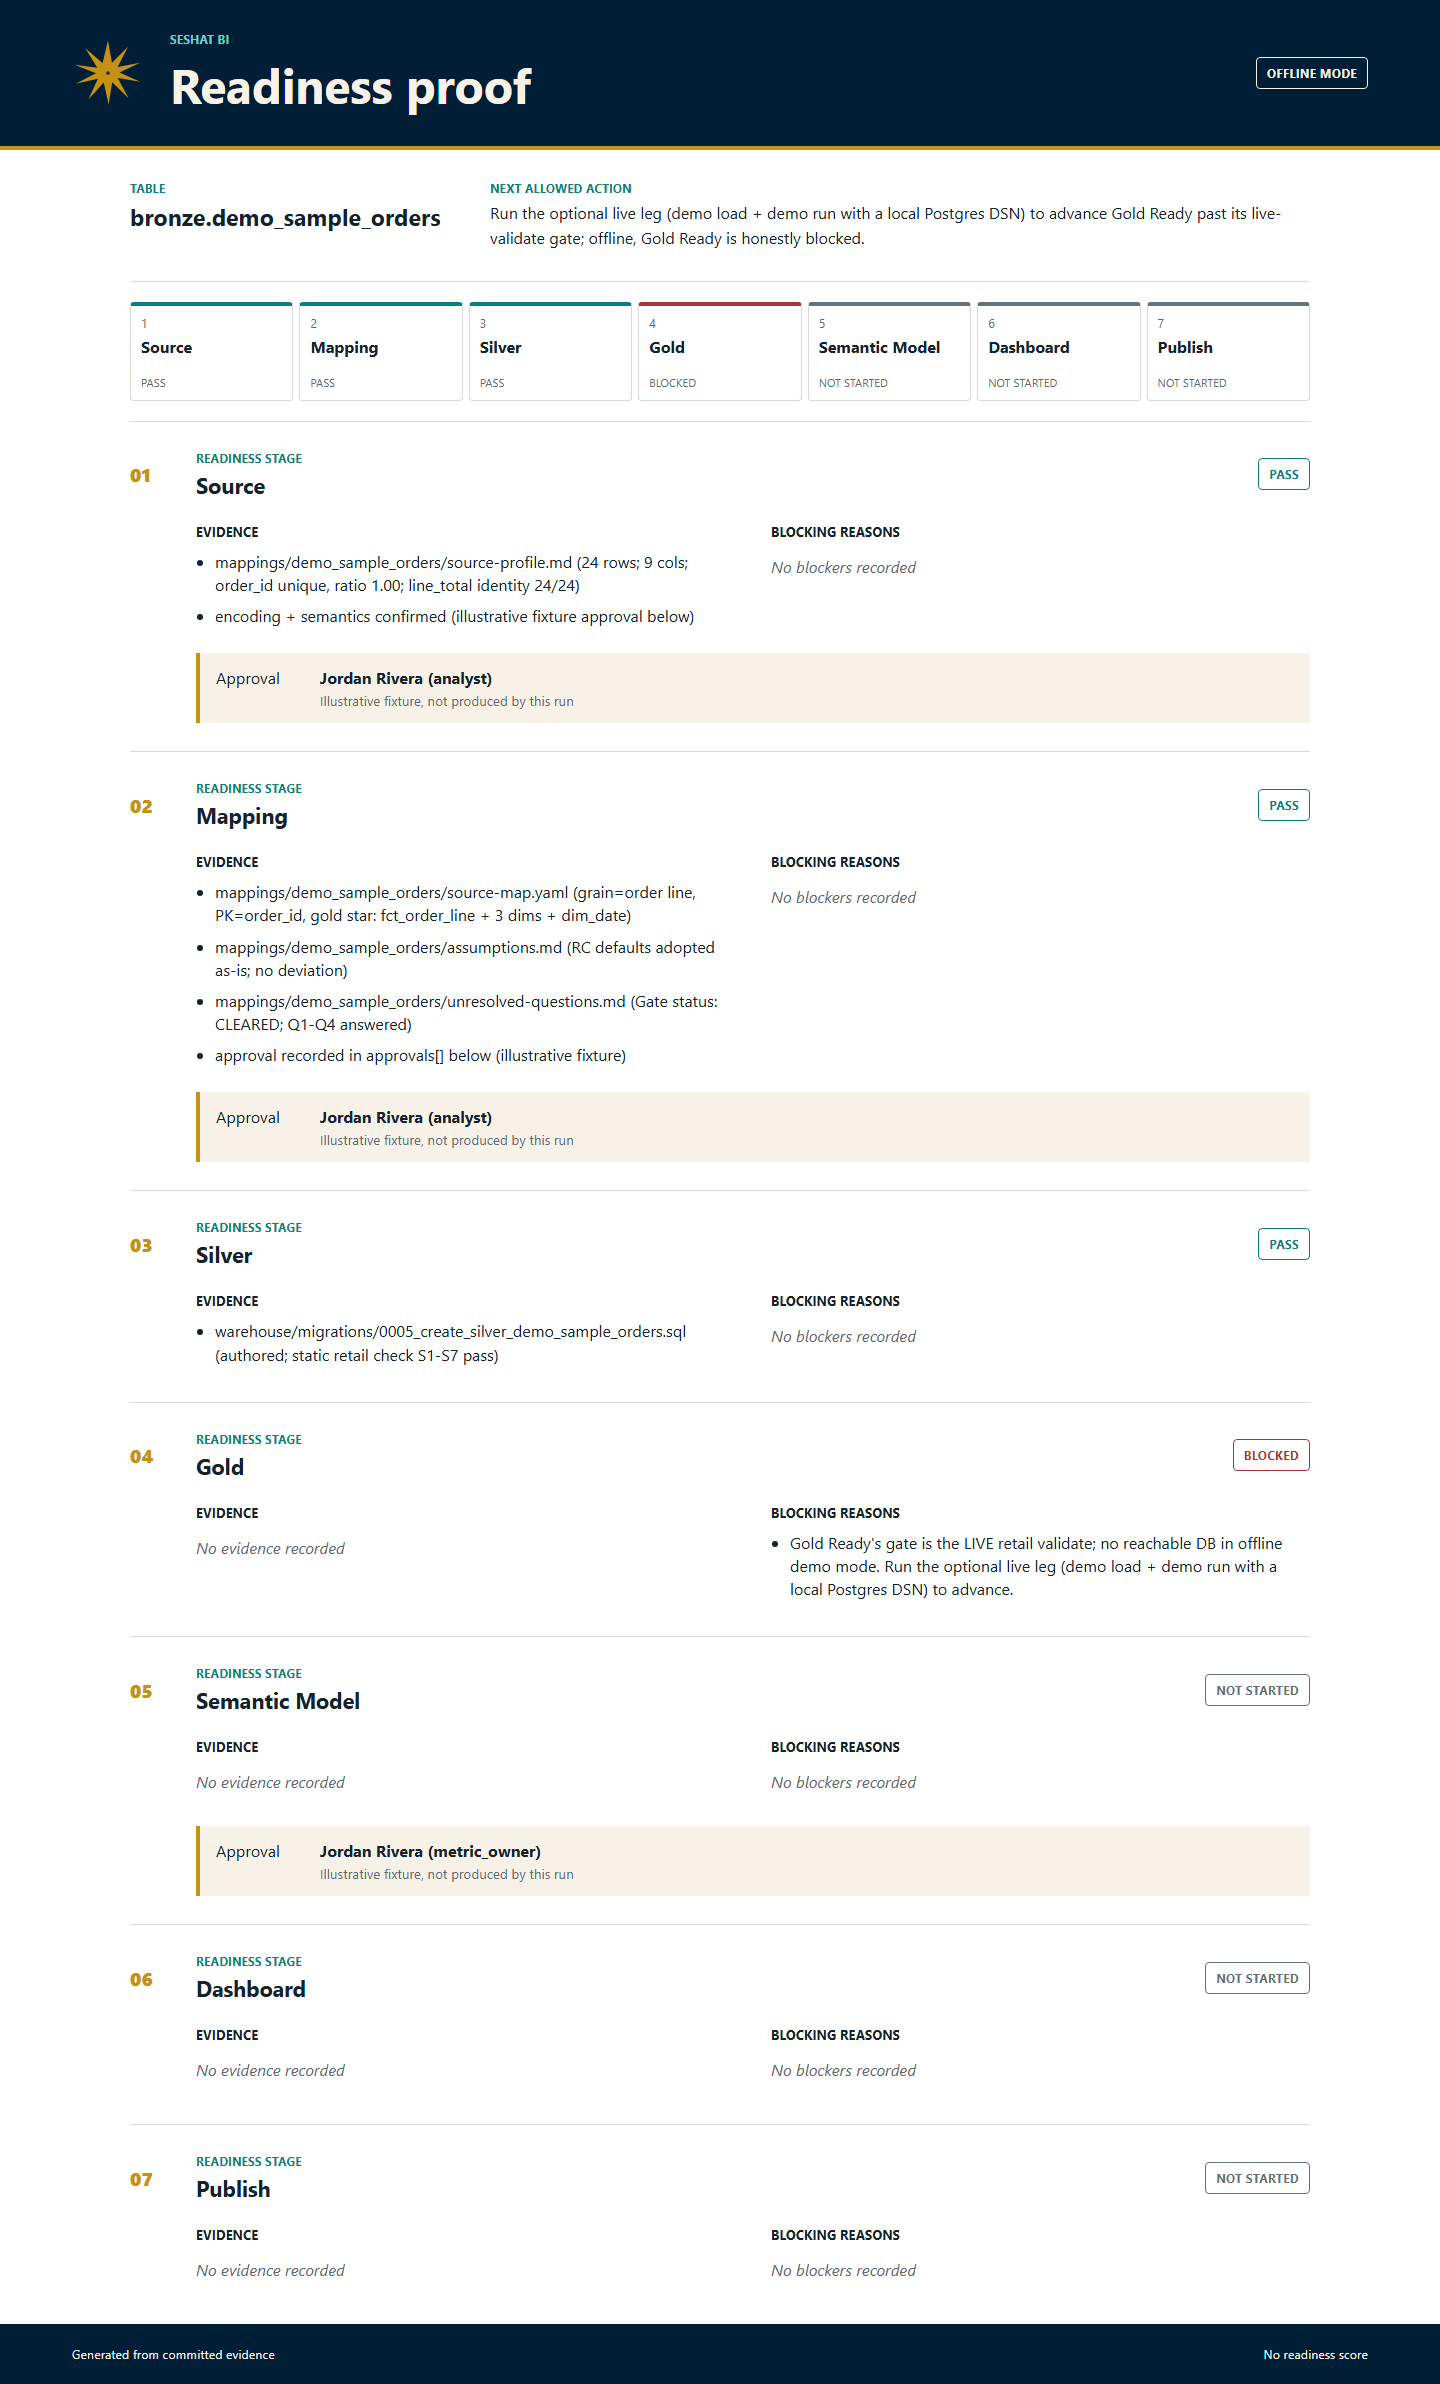
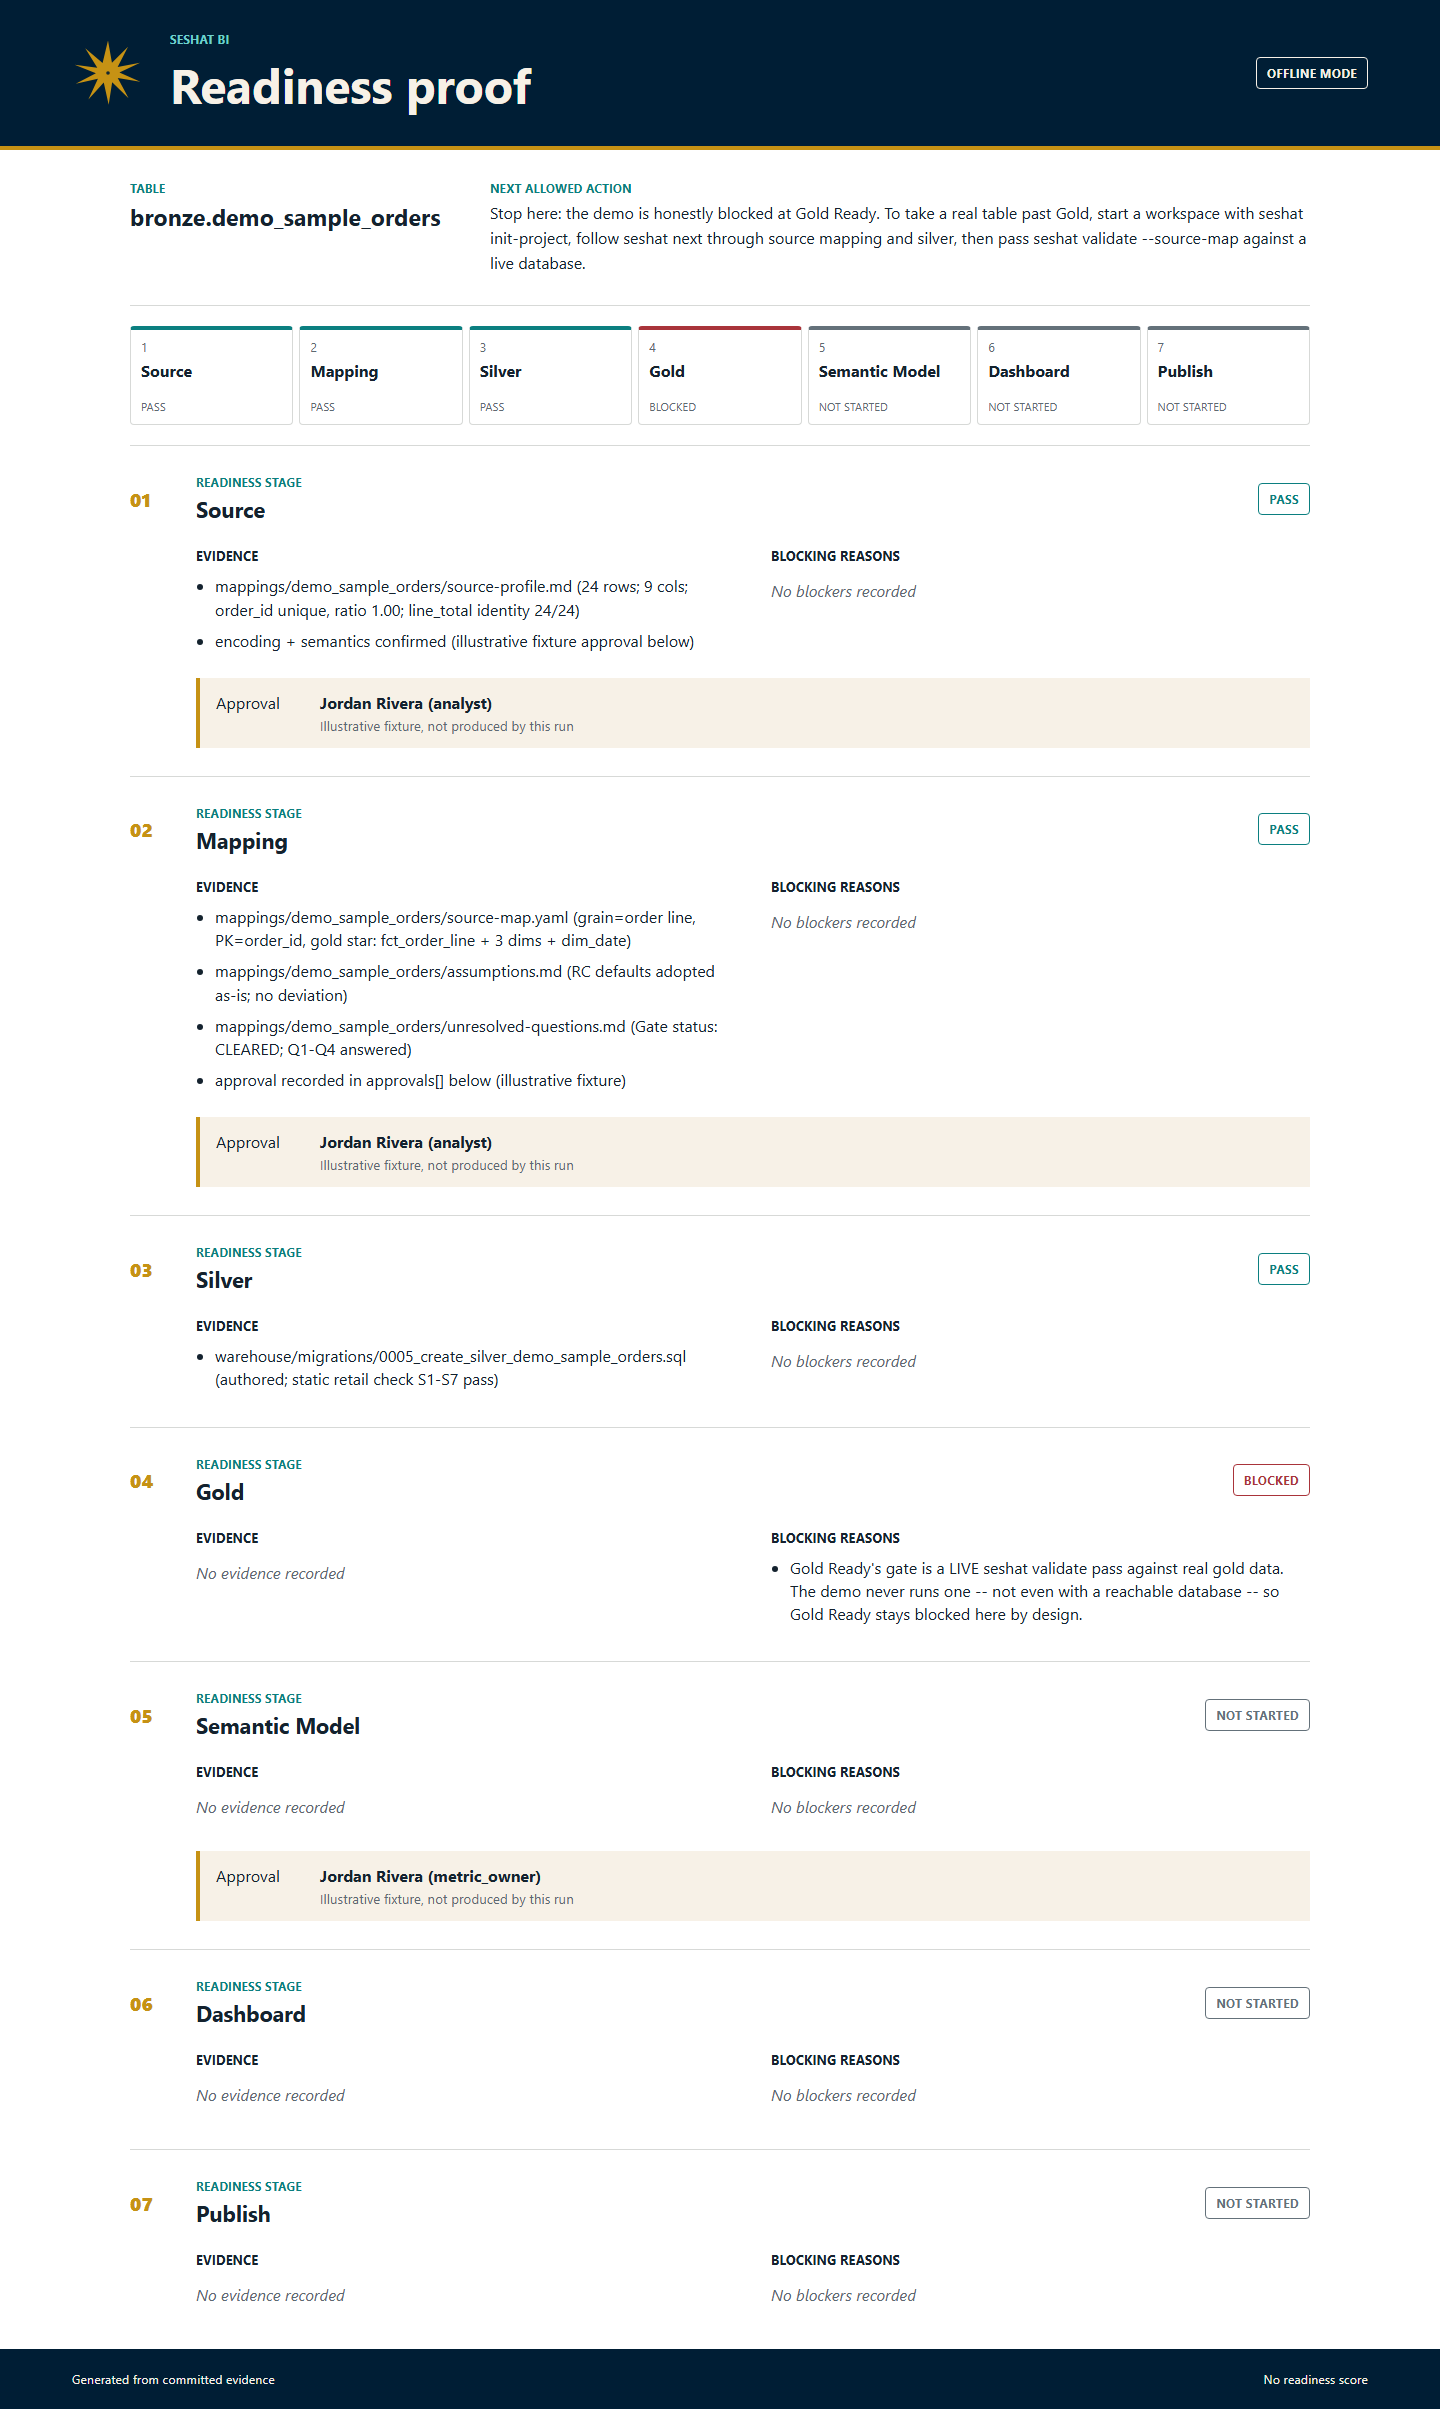
fix: demo hints echo the invoked brand and stop promising a live Gold pass (#782)
* chore: renormalize studio-ui package.json line endings

#774 stored the file with CRLF in the index while .gitattributes marks it
text, so every checkout showed it as modified. Content is unchanged
(the diff is empty under --ignore-cr-at-eol).

* fix: demo hints echo the invoked brand and stop promising a live Gold pass

`demo init` and `demo run` hard-coded the deprecated `retail demo ...` hints;
they now echo the command the client typed (#402 idiom). The demo fixture,
harness doc and run.py docstring claimed the live leg advances Gold Ready,
but `demo load` creates only an empty demo-scoped table and `demo run` caps
Gold at blocked even when a database is reachable. The blocker and next
action now say so and point at the real path (init-project + validate).
The README demo screenshot is regenerated from the corrected report.

* fix: demo load hint echoes the invoked brand; align demo prose with the Gold cap

Pre-PR review follow-up: `demo load` still named `retail validate`, and the
package docstring, fixture header comments and harness verb list still said
the live leg writes the sample / validates. The live-leg test now asserts the
reachable path actually ran and rejects any "advance"/"live leg" promise.

* fix: demo next action names the source-map step before live validate

Review follow-up: `seshat validate` without --source-map only reports a
deferred state, so a fresh init-project workspace needs mapping and silver
[…]

diff --git a/tests/unit/test_demo_flow.py b/tests/unit/test_demo_flow.py
@@ -283,6 +283,48 @@ def test_demo_never_writes_tracked_readiness_fixture(tmp_path):
     assert committed.read_bytes() == before
 
 
+@pytest.mark.parametrize("subcommand", ["init", "load", "run"])
+@pytest.mark.parametrize("prog", ["seshat", "retail"])
+def test_demo_next_hints_echo_the_invoked_brand(tmp_path, capsys, subcommand, prog):
+    """The follow-up hints name the command the client typed (#402), so a
+    `seshat demo init` user is never told to run the deprecated `retail` alias."""
+    from seshat.cli import main
+
+    _seed_repo(tmp_path)
+    assert main(["demo", subcommand, "--repo", str(tmp_path)], prog=prog) == 0
+    out = capsys.readouterr().out
+    other = "retail" if prog == "seshat" else "seshat"
+    assert f"{prog} " in out
+    assert f"{other} " not in out
+
+
+def test_demo_never_claims_the_live_leg_advances_gold(tmp_path, monkeypatch):
+    """`demo run` caps Gold Ready at blocked even when a database is reachable
+    (it never runs `seshat validate`, and `demo load` writes no rows), so the
+    blocker and next action must not promise that the live leg advances Gold."""
+    from seshat.demo import run as demo_run
+
+    _seed_repo(tmp_path)
+    monkeypatch.setattr(demo_run, "resolve_dsn", lambda args: "postgresql://demo")
+    monkeypatch.setattr(demo_run, "probe_reachable", lambda dsn: True)
+
+    class _Args:
+        repo = str(tmp_path)
+        dsn = None
+
+    assert demo_run.run_run(_Args()) == 0
+    snap = json.loads(
+        (tmp_path / ".demo-work" / "computed-status.json").read_text(encoding="utf-8")
+    )
+    assert snap["live_reachable"] is True  # the live path really ran
+    gold = snap["stages"]["gold_ready"]
+    assert gold["status"] == "blocked"
+    for claim in [*gold["blocking_reasons"], snap["next_action"]]:
+        assert "advance" not in claim.lower()
+        assert "demo load" not in claim.lower()
+        assert "live leg" not in claim.lower()
+
+
 def _seed_repo(tmp_path: Path) -> None:
     """Copy the committed demo fixtures into a tmp repo root for isolated testing."""
     import shutil

diff --git a/src/seshat/demo/run.py b/src/seshat/demo/run.py
@@ -1,13 +1,14 @@
 """``retail demo run`` -- recompute the sample's per-stage readiness status.
 
-Recomputes from committed mapping-gate artifacts + ``retail check``'s exit + (only
-if a DB was loaded and is reachable) ``retail validate``. Writes a snapshot to the
+Recomputes from the committed mapping-gate artifacts and records whether a DSN is
+reachable; it never runs ``retail validate``. Writes a snapshot to the
 working directory for ``report`` to render. NO separate run-state engine -- every
 value is re-derivable from the same committed artifacts + gate outputs.
 
 Offline honest ceiling: Source/Mapping/Silver reach ``pass`` (committed artifacts +
 static ``retail check``); Gold Ready onward is ``blocked``/``not_started`` -- never
-``pass`` offline, because Gold Ready's gate is the LIVE ``retail validate``.
+``pass`` here, because Gold Ready's gate is the LIVE ``retail validate`` and this
+verb never runs it -- not even when a database is reachable.
 """
 
 from __future__ import annotations
@@ -113,6 +114,7 @@ def run_run(args) -> int:
         None,
     )
     mode = "live" if live_reachable else "offline"
+    prog = getattr(args, "prog", "seshat")
     print(f"demo run complete ({mode} mode).")
     if live_reachable:
         print(
@@ -120,11 +122,11 @@ def run_run(args) -> int:
             "'demo run' and stays capped below pass."
         )
     if frontier is None:
-        print("all stages pass. See 'retail demo report' for detail.")
+        print(f"all stages pass. See '{prog} demo report' for detail.")
     else:
         state = snapshot["stages"][frontier]["status"]
         print(
             f"current frontier: {frontier} = {state}. "
-            "See 'retail demo report' for status + evidence + blockers."
+            f"See '{prog} demo report' for status + evidence + blockers."
         )
     return 0

diff --git a/src/seshat/demo/__init__.py b/src/seshat/demo/__init__.py
@@ -18,11 +18,13 @@ Pinned naming choices (decided once here, per tasks T001):
 
 The four verbs (each a thin handler, dispatched from ``cli.py``):
 - ``init``   -- materialize the committed fixtures into ``.demo-work/`` (idempotent).
-- ``load``   -- offline: report the no-DSN skip reason (exit 0); live: write the
-                demo-scoped sample into a reachable Postgres (idempotent).
-- ``run``    -- recompute per-stage status from committed artifacts + ``retail
-                check`` + (if loaded + reachable) ``retail validate``. No separate
-                run-state engine; every value is re-derivable.
+- ``load``   -- offline: report the no-DSN skip reason (exit 0); live: create the
+                demo-scoped table shape in a reachable Postgres (idempotent; no
+                sample rows are inserted).
+- ``run``    -- recompute per-stage status from committed artifacts and record
+                whether a DSN is reachable. It never runs ``retail validate``, so
+                Gold Ready onward stays below pass. No separate run-state engine;
+                every value is re-derivable.
 - ``report`` -- render status + evidence + blockers per stage (text | json).
                 NEVER a numeric score, NEVER a chart/dashboard/PBIP artifact.
 

diff --git a/src/seshat/demo/load.py b/src/seshat/demo/load.py
@@ -37,11 +37,12 @@ def run_load(args) -> int:
     dsn = _resolve_dsn(args)
 
     if dsn is None:
+        prog = getattr(args, "prog", "seshat")
         print(
             "demo load: no DSN configured -- offline mode. "
             "Nothing to load; the offline legs (Source/Mapping/Silver) still reach "
             "pass. To exercise the live leg, set a local Postgres DSN "
-            "(--dsn postgresql://... or the same env vars retail validate uses)."
+            f"(--dsn postgresql://... or the same env vars {prog} validate uses)."
         )
         return 0
 

diff --git a/src/seshat/demo/init.py b/src/seshat/demo/init.py
@@ -24,7 +24,9 @@ def run_init(args) -> int:
         print(f"demo already initialized at {wd} (use --force to refresh)")
     else:
         print(f"demo initialized at {wd}")
+    prog = getattr(args, "prog", "seshat")
     print(
-        "next: retail demo run   (offline)   or   retail demo load --dsn ... (live leg)"
+        f"next: {prog} demo run   (offline)   or   "
+        f"{prog} demo load --dsn ... (live leg)"
     )
     return 0

diff --git a/docs/demo/demo-harness.md b/docs/demo/demo-harness.md
@@ -1,7 +1,7 @@
-# Demo Harness -- `retail demo` (spec 083)
+# Demo Harness -- `seshat demo` (spec 083)
 
 - **On-disk spec:** `specs/083-demo-harness/`  **Roadmap feature:** F083.
-- **Skill/surface:** the `retail demo` CLI verb group (`src/seshat/demo/`).
+- **Skill/surface:** the `seshat demo` CLI verb group (`src/seshat/demo/`).
 - **Sample data:** `tests/fixtures/demo/demo_sample_orders.csv` (GENERIC, invented;
   not client data, not C086). Mapping-gate + readiness fixtures:
   `mappings/demo_sample_orders/`.
@@ -13,13 +13,13 @@ generic sample dataset -- so an evaluator can see the kit work from an installed
 wheel or a fresh clone without a database, secrets, or cloud. Four verbs:
 
 ```bash
-retail demo init      # materialize the committed fixtures into .demo-work/ (git-ignored)
-retail demo load      # offline: skip with a reason; live: write demo-scoped tables
-retail demo run       # recompute per-stage readiness status (offline, or live if a DSN resolves)
-retail demo report    # render status + evidence + blockers (text | json | html)
+seshat demo init      # materialize the committed fixtures into .demo-work/ (git-ignored)
+seshat demo load      # offline: skip with a reason; live: create the demo-scoped table shape (no rows)
+seshat demo run       # recompute per-stage readiness status (records whether a DSN is reachable)
+seshat demo report    # render status + evidence + blockers (text | json | html)
 ```
 
-The product-brand alias is equivalent. The shortest visual proof is:
+The deprecated `retail` alias is equivalent. The shortest visual proof is:
 
 ```bash
 seshat demo init
@@ -39,13 +39,17 @@ Offline (the default, zero network / zero DB):
 - **Source Ready / Mapping Ready / Silver Ready reach `pass`** -- backed by the
   committed mapping-gate artifacts + static `seshat check`.
 - **Gold Ready onward is `blocked` (deferred)** -- because Gold Ready's gate is the
-  LIVE `retail validate`, which needs a reachable database. The demo draws this
-  line honestly; it never fakes a live pass offline.
+  LIVE `seshat validate`, which needs a reachable database. The demo draws this
+  line honestly; it never fakes a live pass.
 
 Optional live leg (only when a local Postgres DSN already resolves): `demo load`
-writes the sample into DEMO-SCOPED objects (a safety guard -- it refuses to write
-into a real `silver`/`gold` table), and `demo run` lets Gold Ready advance with
-real live evidence.
+creates the DEMO-SCOPED table shape (a safety guard -- it refuses to write into a
+real `silver`/`gold` table, and it inserts no sample rows), and `demo run` records
+that the database is reachable. Neither runs `seshat validate`, so **Gold Ready
+stays blocked even on the live leg** -- a reachable connection is not live
+validation. To take a real table past Gold, start a workspace with
+`seshat init-project`, follow `seshat next` through source mapping and silver, then
+pass `seshat validate --source-map <path>` against a live database.
 
 ## What it is NOT
 

diff --git a/README.md b/README.md
@@ -76,7 +76,7 @@ in the terminal.
   pretending the stage passed.
 - **The approvals are labelled.** The demo's approvals are marked *illustrative
   fixture, not produced by this run*. Seshat never fabricates a sign-off.
-- **One next action.** The report ends with the single step that is allowed next.
+- **One next action.** The report names the single step that is allowed next.
   There is no score to game.
 
 That honest "blocked" is the product. A tool that turns every stage green without a
